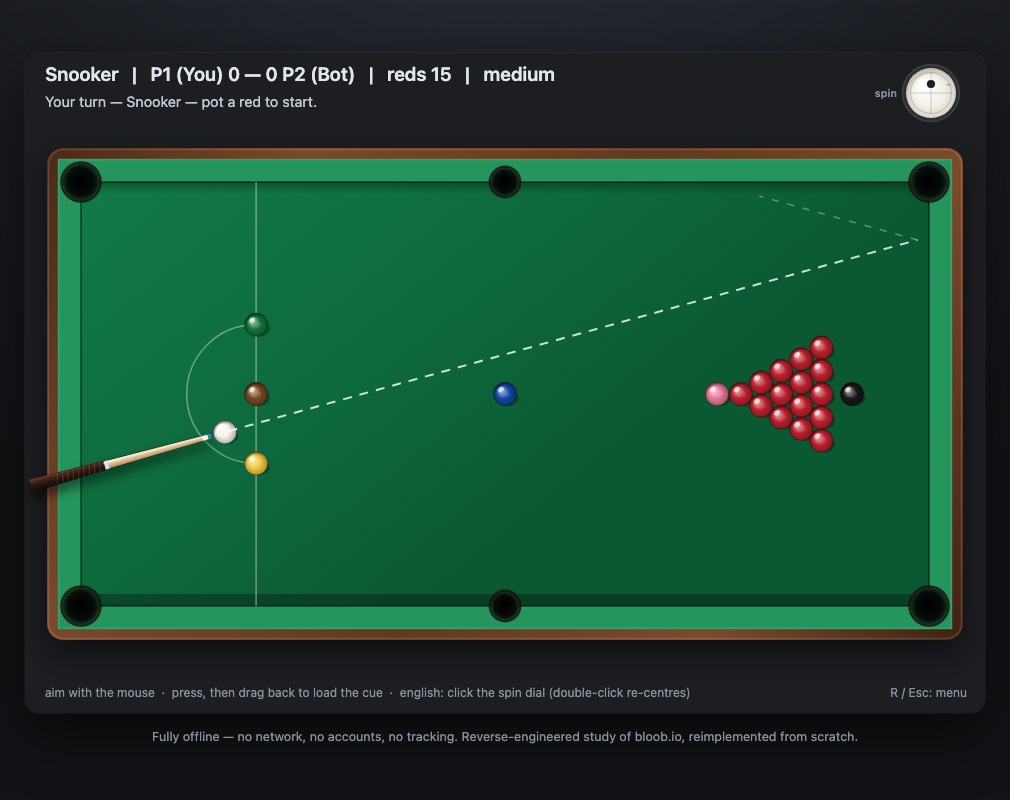
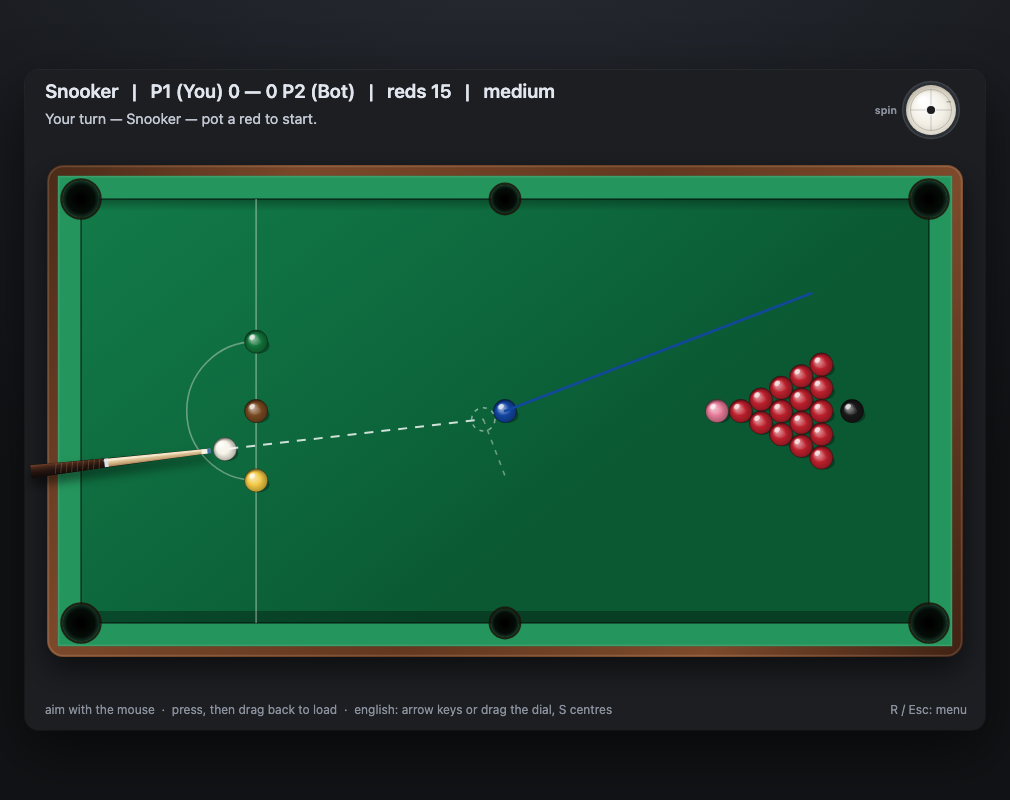
docs: keyboard english, and the screenshot that proves the dial moved
§11.8 records the two changes: the arrow-key stepper (0.2 per step, 0.05 with
shift, overshoot projected onto the rim so the tip behaves like a fingertip)
and the per-stroke reset in _strike(), plus why the strike animation needs its
own copy of the spin.

README: the english bullet now lists the keys and states that every stroke
returns the tip to dead centre, verification is 64/64 with the new keyboard
cases spelled out, and the Chinese 加塞 paragraph matches.

Screenshots: 8ball/snooker re-captured (their hint line and the dial's resting
position both changed), plus english.png — four presses of the down arrow, the
dot sitting at 6 o'clock, which is the draw this commit is about.

diff --git a/README.md b/README.md
@@ -29,6 +29,11 @@ No install, no local server, no network:
 |---|---|
 | ![8-ball](docs/screenshots/8ball.png) | ![snooker](docs/screenshots/snooker.png) |
 
+Four presses of **↓** put the tip on the bottom of the dial — the dot sits at 6 o'clock and the stroke is a
+draw. This is the same dial the stroke animation and the physics read, not a separate indicator:
+
+![draw, dialled with the down arrow](docs/screenshots/english.png)
+
 ### Controls
 - **Ball-in-hand** — click/tap inside the allowed area to place the cue ball.
 - **Aim** — just move the cursor. The aim is the ray **from the cue ball to the pointer**, so the line,
@@ -36,9 +41,11 @@ No install, no local server, no network:
 - **Power** — press anywhere to **lock** that direction, then drag **back** along the cue and release. The
   shot only ever uses the backward component of the drag, so loading power cannot change where you are
   pointing; a sideways or forward drag loads nothing. **Right-click** puts a loaded cue back down.
-- **English (加塞)** — click inside the spin dial on the right to move the strike point. Drag the dot to the
-  bottom and the shot is a **draw**, to the top a **follow**, left/right gives **side spin**. Double-click the
-  dial (or press **S**) to re-centre it. The cue itself is drawn off-centre, matching the strike point.
+- **English (加塞)** — click/drag inside the spin dial on the right, or walk the tip with **↑ ↓ ← →**
+  (up = follow, down = draw, left/right = side spin; **Shift** = a fine 0.05 step). The tip cannot leave
+  the ball: overshooting slides it along the rim. **S** or a double-click re-centres, and **every stroke
+  resets the tip to dead centre on its own** — english is consumed by the shot it was dialled in for and
+  can never leak into the next one. The cue itself is drawn off-centre, matching the strike point.
 - **R / Esc** — back to the menu.
 
 This is how bloob's own input works: its `power(start, end, angle)` helper throws the pull away unless it is
@@ -212,12 +219,19 @@ The JavaScript port surfaced three genuine bugs that also affected the Python bu
   coasting ball's speed follows `v₀·e^(−0.45 t)` to within a few per cent.
 - **Position play & escapes (Node, headless): 6/6** — a deliberately snookered cue finds a one-rail kick that
   contacts the ball on, stays on the table, and the 8-ball / snooker frames still finish.
-- **UI wiring (headless DOM/Canvas): 41/41** — menu → start → place → aim → pull → strike → resolve → bot
+- **UI wiring (headless DOM/Canvas): 64/64** — menu → start → place → aim → pull → strike → resolve → bot
   turn, for both modes, plus the game-over overlay, a monotonic power curve from a soft tap to a full stroke,
   the spin dial setting the strike point, and ball-in-hand on both tables. The aim/power split has its own
   cases: pointing right aims right (not left), pointing up aims up, jitter sitting on the ball is ignored,
   pressing does not move the aim, the aim is identical before and after a full pull, and sideways/forward
   drags load exactly zero power.
+- **Keyboard english (same suite)** — ↑ adds exactly one follow step and no side spin, ↓ undoes it to the
+  bit, shift is a five-times finer step, twenty presses of ↑ park the tip at 12 o'clock and never off the
+  ball, coming off the rim stays on the rim, arrows are prevented from scrolling the page and are inert
+  while the balls roll, S re-centres, and **a stroke leaves the dial at dead centre**. End-to-end: the same
+  shot fired from the centre and after five ↓ differ *only* in spin — the centre ball leaves with no rolling
+  spin at all, the down-arrow ball leaves with a real backspin, and both settle without anything leaving the
+  table.
 - Screenshots above are real renders captured with headless Chrome.
 
 The bot search is a **generator** that is drained in ~7 ms slices per frame, so choosing a shot never freezes
@@ -281,8 +295,11 @@ bot 除 ghost-ball 进球搜索外，新增**走位评估**（打完球后母球
 被甩偏；库边同样有切向冲量（`μ = 0.17`），侧旋会真的改变反弹角，而不是装饰。球只有在**速度和滑移都
 很小**时才会停下，所以"看着不动但还有后旋"的球会继续咬地往回滚。
 
-**加塞**：右侧旋钮点一下就把击球点挪过去，拖到下面是**低杆**、上面是**高杆**、左右是**侧塞**，双击
-（或按 S）回中；球杆画出来时也会偏离球心，和击球点一致。击球点偏移 `h` 直接决定角速度 `w = 2.5·h·v/r`。
+**加塞**：右侧旋钮点一下就把击球点挪过去，拖到下面是**低杆**、上面是**高杆**、左右是**侧塞**；也可以
+直接用 **↑ ↓ ← →** 一格一格走（每格 0.2 个球半径，按住 **Shift** 变成 0.05 的细调）。击球点不会走出球
+体——越界会被投影回圆周上，所以一直按住 ↑ 会稳稳停在 12 点方向，而不是乱跳。双击旋钮或按 **S** 回中；
+**每打完一杆都会自动回到正中心**，这杆调的塞不会被带到下一杆去。球杆画出来时也会偏离球心，和击球点
+一致。击球点偏移 `h` 直接决定角速度 `w = 2.5·h·v/r`：正中心是定杆，往下四格就是真低杆。
 
 **进袋**：进袋不再"一帧消失"。球会滑进袋口最后几个单位、缩小、淡出，并在一道裁剪到袋口的袋沿阴影下
 消失，同时袋口泛起涟漪、附近台呢变暗；碰撞点还会溅出一圈短促的火花点，能看清是哪两颗球撞了、多重。

diff --git a/docs/REA_findings.md b/docs/REA_findings.md
@@ -205,3 +205,22 @@
 
 验证（无头 DOM，41 项）新增：指右瞄右、指上瞄上、球上抖动不改变瞄准、按下不移动瞄准、拉满前后 `aim_angle`
 完全一致、横向与往前拖力度严格为 0、回拉后力度可精确复现。
+
+### 11.8 加塞的键盘输入与"每杆归零"
+
+旋钮只能"点/拖"，细调很别扭；而且加塞值会一直留在那里，上一杆的低杆会悄悄影响下一杆。现在两条一起改：
+
+- **方向键步进**：`↑` = 高杆、`↓` = 低杆、`←/→` = 左右塞，每格 0.2 个球半径；按住 **Shift** 变成 0.05。
+- **不出球**：`|(sx, sy)| > 1` 时把向量**投影回单位圆**（`sx,m /= m`），而不是丢弃这一步。所以连按 20 次
+  `↑` 会稳稳停在 12 点方向，继续按也只是贴着圆周；从圆周上再按 `↓` 会沿圆周滑下来（`x` 保持），
+  手感是"指尖在球面上走"而不是二轴各管各的。
+- **`preventDefault()`**：否则方向键会滚动页面。只在 `phase === "play" && 人类回合 && !simulating` 时生效。
+- **每杆自动回中**：`_strike()` 在 `launch()` 之后立刻 `spin = SPIN_CENTER`（= `[0, 0]`，定杆）。
+  击球动画另存一份 `strike_spin`，所以球在跑的时候球杆仍按原来那个击球点偏画，不会闪回中心。
+  机器人出手也走 `_strike`，所以它的杆同样会归零，旋钮不会在机器人思考时显示上一杆的残留。
+- 默认值由"略高于中心"（`[0, 0.45]`，约 0.62 倍自然滚动）改成**正中心**，与"回中"语义一致。
+
+验证（无头 DOM，64 项）新增：↑ 恰好一步且无侧塞、↓ 精确抵消回 0、Shift 五分之一格、连按 20 次停在 12 点、
+越界沿圆周滑、滚球时方向键无效、S 回中、击球后 `spin == [0,0]` 且 `strike_spin` 保留原值；
+端到端对比"中杆 vs 连按五次 ↓"：两杆方向力度相同，中杆母球 `wy == 0`（定杆），低杆那杆 `wy < -3`（真后旋），
+两杆都停稳且无球出台。
